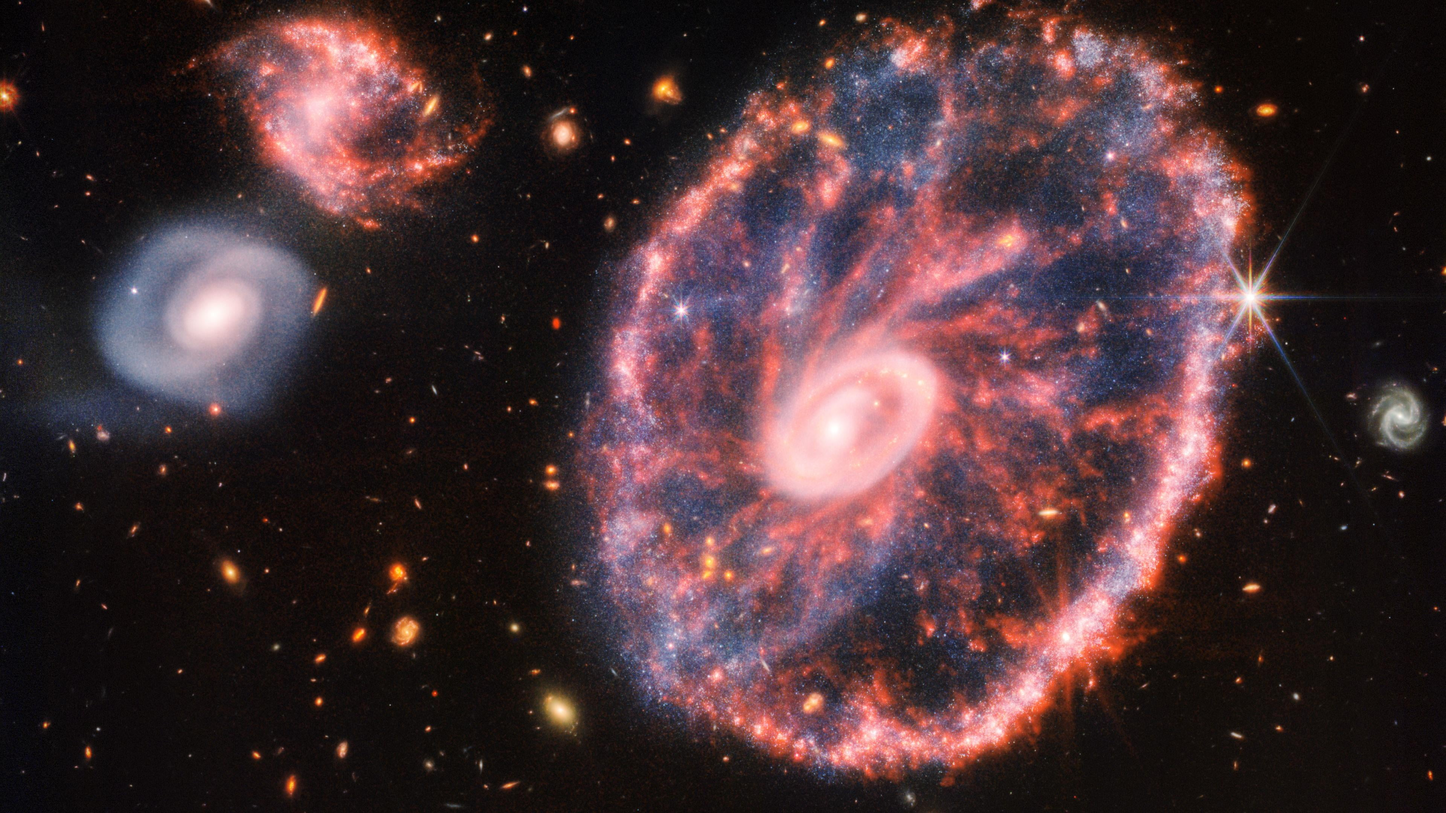
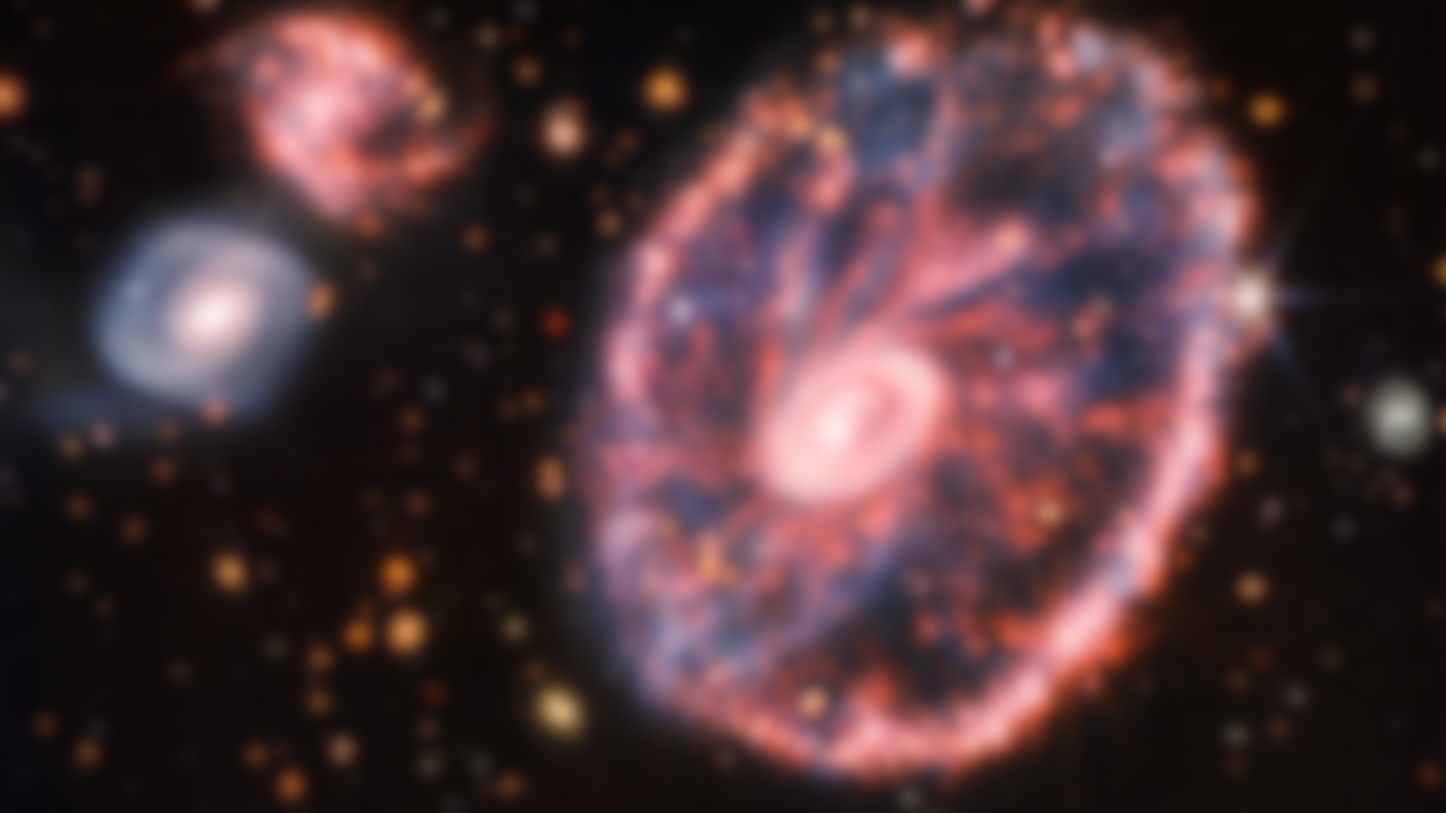
Projeto adicionado

diff --git a/projetos.html b/projetos.html
@@ -43,12 +43,10 @@
 
     <main id="main">
         <section id="containerProjetos">
-            <div>
-                <h1>Projetos</h1>
-                <img src="./assets/maintenanceicon.png" />
-                <p>Lorem, ipsum dolor sit amet consectetur adipisicing elit. Molestias excepturi nemo minima architecto,
-                    suscipit alias illum mollitia, tenetur necessitatibus ducimus magnam, deserunt iure quia voluptatem
-                    voluptatibus error sunt neque quas.</p>
+            <div class="PrimeiroProjeto">
+                <h1>Monkey Kush Tobacco Store</h1>
+                <img src="./assets/logomk.png" onclick="Projeto1()" />
+                <p>Site em desenvolvimento, entrega proposta até 01/2024, a proposta é ser um site internacional e-commerce de itens e produtos de tabacaria</p>
             </div>
 
             <div>

diff --git a/styles/style.css b/styles/style.css
@@ -2,7 +2,7 @@
     box-sizing: border-box;
     margin: 0;
     padding: 0;
-    font-family: 'Changa', sans-serif
+    font-family: 'Changa', sans-serif;
 }
 
 #container {
@@ -109,7 +109,7 @@ header a {
 
 body {
     background: #000 url(../wallpaper1.jpg);
-    backdrop-filter: blur(20px);
+    backdrop-filter: blur(50px);
     height: 100%
 }
 
@@ -261,6 +261,15 @@ i {
     margin: 40px 0;
     width: 200px;
     height: 200px
+}
+
+#containerProjetos p{
+    text-align: center;
+}
+
+.PrimeiroProjeto img{
+    transform: scaleX(2);
+    cursor: pointer;
 }
 
 @media (min-height: 800px) {

diff --git a/script/script.js b/script/script.js
@@ -57,3 +57,7 @@ function Reset() {
 function BaixarCV() {
     window.location.href = './assets/CV/Vitor Bruschi Currículo Fullstack.pdf'
 }
+
+function Projeto1(){
+    window.open('https://www.mktabacaria.com.br')
+}

diff --git a/styles/book.css b/styles/book.css
@@ -20,7 +20,7 @@
 body {
     height: 100vh;
     place-items: center;
-    background: black url('../wallpaper1.jpg');
+    background: black;
     backdrop-filter: blur(20px);
     overflow: hidden;
 }
